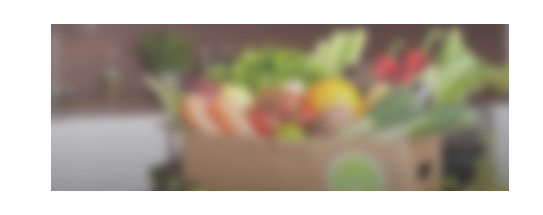
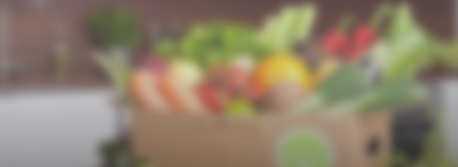
fixed background assets

diff --git a/app/assets/stylesheets/themes/kalekrate/forms.scss b/app/assets/stylesheets/themes/kalekrate/forms.scss
@@ -2,14 +2,14 @@
 @import 'mixins';
 
 .form-header {
-  background: url('/images/kalekrate/form-header-bg.png') top center no-repeat;
+  background: url('/images/kalekrate/form-header-bg.png') center no-repeat;
   height: 167px;
   position: relative;
   background-size: cover;
   @media (-webkit-min-device-pixel-ratio: 2), (-moz-min-device-pixel-ratio: 2) {
     & {
-      background: url('/images/kalekrate/form-header-bg@2x.png') top center no-repeat;
-      // background-size: 100%;
+      background: url('/images/kalekrate/form-header-bg@2x.png') center no-repeat;
+      background-size: cover;
     }
   }
 
